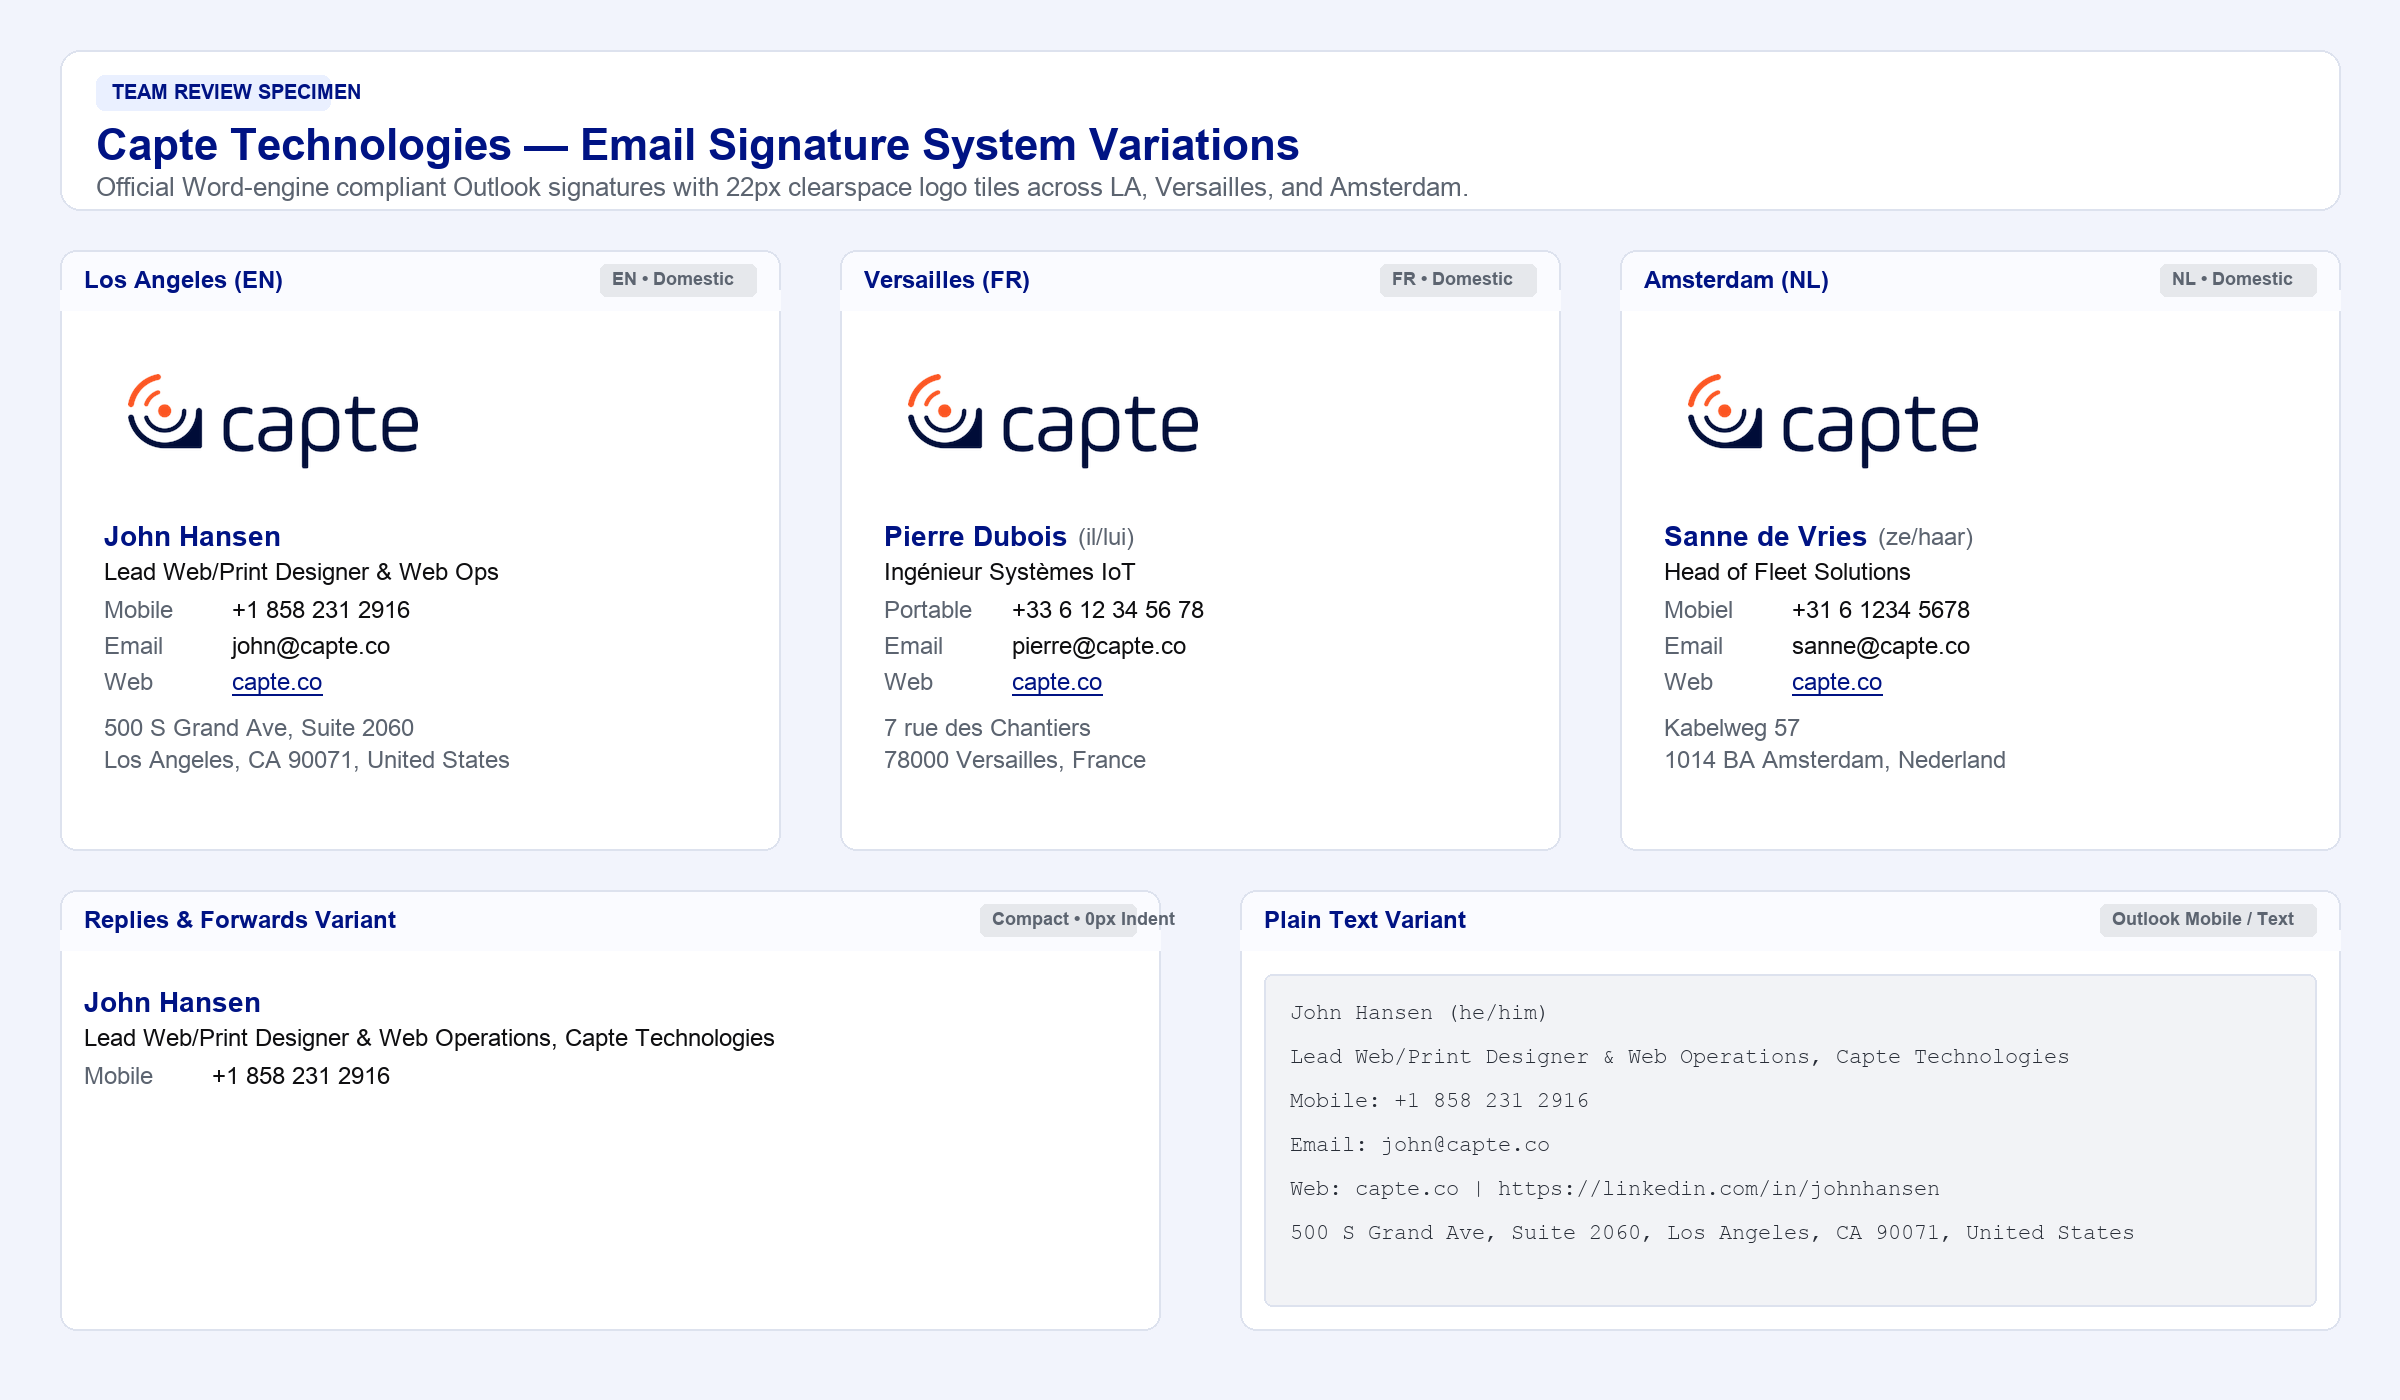
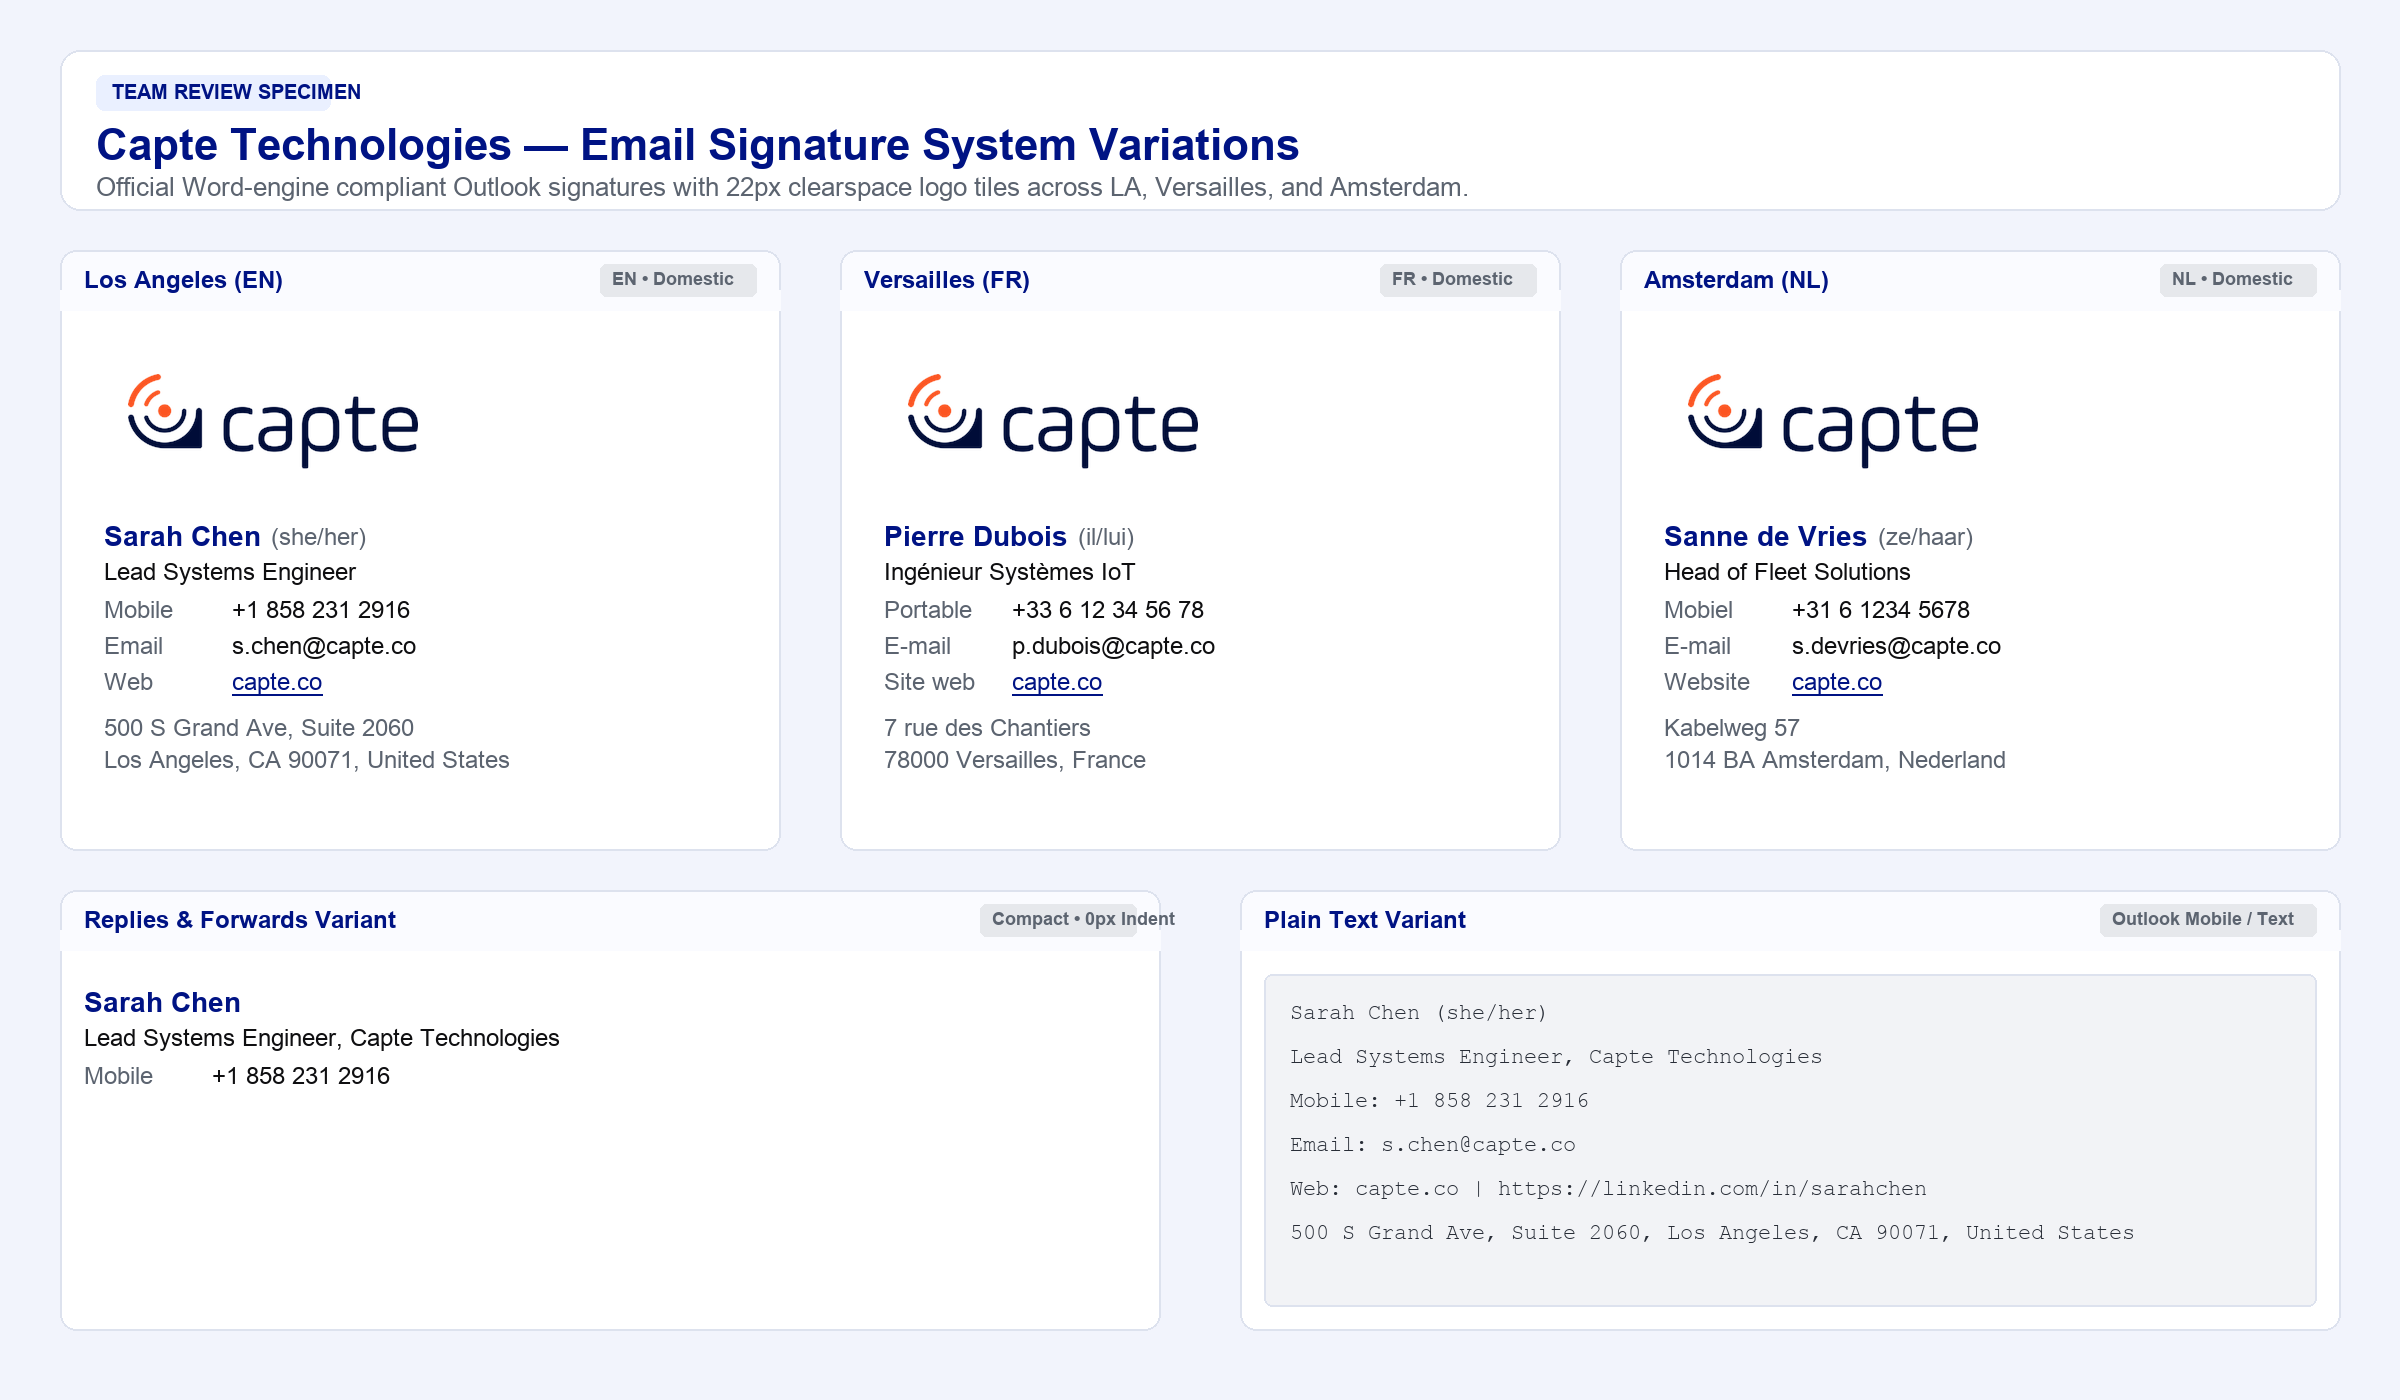
docs(email-signature): update variations sheet image with neutral sample personas

diff --git a/components/email-signature/signature-variations-sheet.html b/components/email-signature/signature-variations-sheet.html
@@ -191,8 +191,8 @@
             <tr><td style="padding:0;">
               <a href="https://www.capte.co/?utm_source=email-signature&utm_medium=email&utm_campaign=employee-signature&utm_content=office-la" style="text-decoration:none;"><img src="capte-email-signature-logo@2x.png" width="189" height="92" alt="Capte Technologies" style="display:block;border:0;outline:none;width:189px;height:92px;"></a>
             </td></tr>
-            <tr><td style="font-family:Arial,Helvetica,sans-serif;font-size:15px;line-height:20px;font-weight:bold;color:#001384;padding:2px 0 0 22px;">John Hansen</td></tr>
-            <tr><td style="font-family:Arial,Helvetica,sans-serif;font-size:13px;line-height:18px;color:#0F0F11;padding:0 0 10px 22px;">Lead Web/Print Designer & Web Operations</td></tr>
+            <tr><td style="font-family:Arial,Helvetica,sans-serif;font-size:15px;line-height:20px;font-weight:bold;color:#001384;padding:2px 0 0 22px;">Sarah Chen <span style="font-weight:normal;font-size:13px;color:#5C6470;">&nbsp;(she/her)</span></td></tr>
+            <tr><td style="font-family:Arial,Helvetica,sans-serif;font-size:13px;line-height:18px;color:#0F0F11;padding:0 0 10px 22px;">Lead Systems Engineer</td></tr>
             <tr><td style="padding:0 0 0 22px;">
               <table role="presentation" cellpadding="0" cellspacing="0" border="0" style="border-collapse:collapse;"><tr>
                 <td width="64" style="font-family:Arial,Helvetica,sans-serif;width:64px;font-size:13px;line-height:20px;color:#5C6470;padding:0;vertical-align:top;">Mobile</td>
@@ -202,7 +202,7 @@
             <tr><td style="padding:0 0 0 22px;">
               <table role="presentation" cellpadding="0" cellspacing="0" border="0" style="border-collapse:collapse;"><tr>
                 <td width="64" style="font-family:Arial,Helvetica,sans-serif;width:64px;font-size:13px;line-height:20px;color:#5C6470;padding:0;vertical-align:top;">Email</td>
-                <td style="font-family:Arial,Helvetica,sans-serif;font-size:13px;line-height:20px;color:#0F0F11;padding:0;vertical-align:top;"><a href="mailto:john@capte.co" style="color:#0F0F11;text-decoration:none;">john@capte.co</a></td>
+                <td style="font-family:Arial,Helvetica,sans-serif;font-size:13px;line-height:20px;color:#0F0F11;padding:0;vertical-align:top;"><a href="mailto:s.chen@capte.co" style="color:#0F0F11;text-decoration:none;">s.chen@capte.co</a></td>
               </tr></table>
             </td></tr>
             <tr><td style="padding:0 0 0 22px;">
@@ -238,7 +238,7 @@
             <tr><td style="padding:0 0 0 22px;">
               <table role="presentation" cellpadding="0" cellspacing="0" border="0" style="border-collapse:collapse;"><tr>
                 <td width="64" style="font-family:Arial,Helvetica,sans-serif;width:64px;font-size:13px;line-height:20px;color:#5C6470;padding:0;vertical-align:top;">E-mail</td>
-                <td style="font-family:Arial,Helvetica,sans-serif;font-size:13px;line-height:20px;color:#0F0F11;padding:0;vertical-align:top;"><a href="mailto:pierre@capte.co" style="color:#0F0F11;text-decoration:none;">pierre@capte.co</a></td>
+                <td style="font-family:Arial,Helvetica,sans-serif;font-size:13px;line-height:20px;color:#0F0F11;padding:0;vertical-align:top;"><a href="mailto:p.dubois@capte.co" style="color:#0F0F11;text-decoration:none;">p.dubois@capte.co</a></td>
               </tr></table>
             </td></tr>
             <tr><td style="padding:0 0 0 22px;">
@@ -274,7 +274,7 @@
             <tr><td style="padding:0 0 0 22px;">
               <table role="presentation" cellpadding="0" cellspacing="0" border="0" style="border-collapse:collapse;"><tr>
                 <td width="64" style="font-family:Arial,Helvetica,sans-serif;width:64px;font-size:13px;line-height:20px;color:#5C6470;padding:0;vertical-align:top;">E-mail</td>
-                <td style="font-family:Arial,Helvetica,sans-serif;font-size:13px;line-height:20px;color:#0F0F11;padding:0;vertical-align:top;"><a href="mailto:sanne@capte.co" style="color:#0F0F11;text-decoration:none;">sanne@capte.co</a></td>
+                <td style="font-family:Arial,Helvetica,sans-serif;font-size:13px;line-height:20px;color:#0F0F11;padding:0;vertical-align:top;"><a href="mailto:s.devries@capte.co" style="color:#0F0F11;text-decoration:none;">s.devries@capte.co</a></td>
               </tr></table>
             </td></tr>
             <tr><td style="padding:0 0 0 22px;">
@@ -300,8 +300,8 @@
         </div>
         <div class="card-body">
           <table role="presentation" lang="en" cellpadding="0" cellspacing="0" border="0" style="border-collapse:collapse;font-family:Arial,Helvetica,sans-serif;">
-            <tr><td style="font-family:Arial,Helvetica,sans-serif;font-size:15px;line-height:20px;font-weight:bold;color:#001384;padding:0;">John Hansen</td></tr>
-            <tr><td style="font-family:Arial,Helvetica,sans-serif;font-size:13px;line-height:18px;color:#0F0F11;padding:0 0 10px 0;">Lead Web/Print Designer & Web Operations, Capte Technologies</td></tr>
+            <tr><td style="font-family:Arial,Helvetica,sans-serif;font-size:15px;line-height:20px;font-weight:bold;color:#001384;padding:0;">Sarah Chen</td></tr>
+            <tr><td style="font-family:Arial,Helvetica,sans-serif;font-size:13px;line-height:18px;color:#0F0F11;padding:0 0 10px 0;">Lead Systems Engineer, Capte Technologies</td></tr>
             <tr><td style="padding:0;">
               <table role="presentation" cellpadding="0" cellspacing="0" border="0" style="border-collapse:collapse;"><tr>
                 <td width="64" style="font-family:Arial,Helvetica,sans-serif;width:64px;font-size:13px;line-height:20px;color:#5C6470;padding:0;vertical-align:top;">Mobile</td>
@@ -319,11 +319,11 @@
           <span class="card-tag">Outlook Mobile / Text</span>
         </div>
         <div class="card-body">
-          <div class="plain-text-box">John Hansen (he/him)
-Lead Web/Print Designer & Web Operations, Capte Technologies
+          <div class="plain-text-box">Sarah Chen (she/her)
+Lead Systems Engineer, Capte Technologies
 Mobile: +1 858 231 2916
-Email: john@capte.co
-Web: capte.co | https://linkedin.com/in/johnhansen
+Email: s.chen@capte.co
+Web: capte.co | https://linkedin.com/in/sarahchen
 500 S Grand Ave, Suite 2060, Los Angeles, CA 90071, United States</div>
         </div>
       </div>
